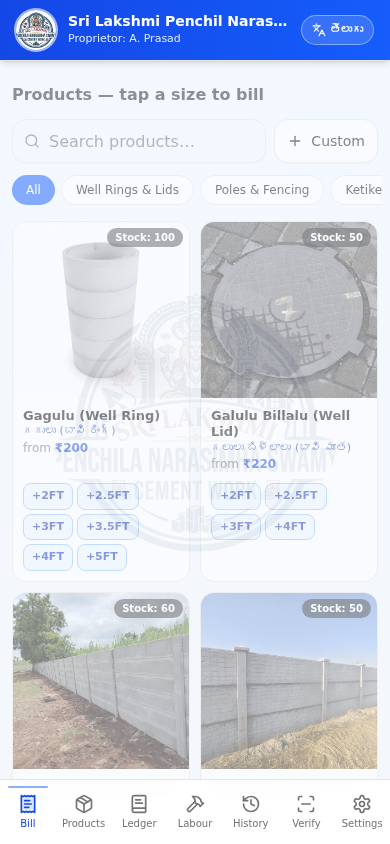
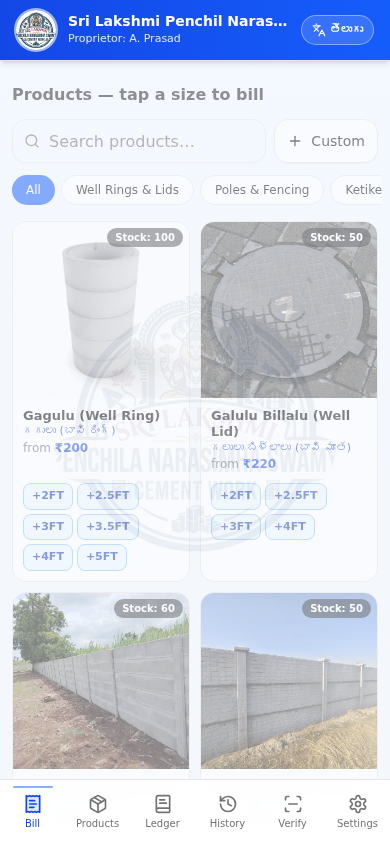
v33: labour work page MERGED into the ledger — the bottom bar is back to 6 tabs (Bill, Products, Ledger, History, Verify, Settings); the Ledger's section chips gain a 'Labour work' (లేబర్ పనులు) section that renders the full labour register (add work, notebook, month picker, KPIs) inside the ledger,

diff --git a/src/components/LedgerView.tsx b/src/components/LedgerView.tsx
@@ -26,7 +26,12 @@ import {
 import { useStore } from '@/lib/store';
 import { fmt, fmtShort, localDateKey, localMonthKey, paymentsOf } from '@/lib/billing';
 import { useAppLang, useT } from '@/hooks/use-app-lang';
+import LabourView from '@/components/LabourView';
 import type { AppLanguage, ExpenseCategory, PaymentMode } from '@/lib/types';
+
+/** sticky section chip — the Labour work page lives INSIDE the ledger now,
+ *  and the last-open section survives a refresh */
+const SECTION_KEY = 'slp-ledger-section';
 
 const EXPENSE_CATEGORIES: ExpenseCategory[] = ['Labour wages', 'Diesel', 'Raw material', 'Other'];
 
@@ -49,7 +54,7 @@ function nowHM(): string {
   return fmtTime(new Date());
 }
 
-type LedgerTab = 'day' | 'allDays' | 'income' | 'expenses' | 'dues';
+type LedgerTab = 'day' | 'allDays' | 'income' | 'expenses' | 'dues' | 'labour';
 
 /** One money row in the ledger — income (bill payment) or spent (expense) */
 interface LedgerRow {
@@ -169,7 +174,24 @@ export default function LedgerView() {
   const today = localDateKey(new Date());
   const thisMonth = localMonthKey(new Date());
 
-  const [tab, setTab] = useState<LedgerTab>('day');
+  const [tab, setTab] = useState<LedgerTab>(() => {
+    // sticky section across refreshes (Labour work page lives here now)
+    try {
+      const saved = localStorage.getItem(SECTION_KEY) as LedgerTab | null;
+      if (saved && ['day', 'allDays', 'income', 'expenses', 'dues', 'labour'].includes(saved)) return saved;
+    } catch {
+      /* storage unavailable */
+    }
+    return 'day';
+  });
+  const selectTab = (next: LedgerTab) => {
+    setTab(next);
+    try {
+      localStorage.setItem(SECTION_KEY, next);
+    } catch {
+      /* storage unavailable */
+    }
+  };
   const [day, setDay] = useState(today);
   const [month, setMonth] = useState(thisMonth);
   const [expandedDay, setExpandedDay] = useState<string | null>(null);
@@ -372,6 +394,7 @@ export default function LedgerView() {
     { id: 'income', label: t('ledger.income') },
     { id: 'expenses', label: t('ledger.expenses') },
     { id: 'dues', label: `${t('ledger.dues')}${totalDue > 0 ? ` (${dues.length})` : ''}` },
+    { id: 'labour', label: t('ledger.labour') },
   ];
 
   return (
@@ -383,7 +406,7 @@ export default function LedgerView() {
             key={x.id}
             role="tab"
             aria-selected={tab === x.id}
-            onClick={() => setTab(x.id)}
+            onClick={() => selectTab(x.id)}
             className={`shrink-0 rounded-full px-3.5 py-1.5 text-xs font-medium transition-all active:scale-95 ${
               tab === x.id ? 'bg-blue-600 text-white' : 'border bg-card hover:bg-accent'
             }`}
@@ -587,6 +610,9 @@ export default function LedgerView() {
       )}
 
       {/* ---------- DUES ---------- */}
+      {/* ---------- LABOUR WORK (merged into the ledger) ---------- */}
+      {tab === 'labour' && <LabourView />}
+
       {tab === 'dues' && (
         <div className="space-y-3">
           <div className="flex items-center justify-between rounded-xl border bg-red-50 p-3">

diff --git a/src/components/Navigation.tsx b/src/components/Navigation.tsx
@@ -2,7 +2,7 @@
 
 import { Badge } from '@/components/ui/badge';
 import { Dialog, DialogContent, DialogHeader, DialogTitle } from '@/components/ui/dialog';
-import { WifiOff, ReceiptText, Package, History, Settings, BookText, Languages, Hammer, ScanLine } from 'lucide-react';
+import { WifiOff, ReceiptText, Package, History, Settings, BookText, Languages, ScanLine } from 'lucide-react';
 import { useSyncExternalStore, useState } from 'react';
 import { useStore } from '@/lib/store';
 import { useIdentity } from '@/lib/role';
@@ -117,7 +117,6 @@ export function BottomNav() {
     { id: 'bill', label: t('nav.bill'), icon: ReceiptIcon, ownerOnly: false },
     { id: 'products', label: t('nav.products'), icon: PackageIcon, ownerOnly: true },
     { id: 'ledger', label: t('nav.ledger'), icon: LedgerIcon, ownerOnly: true },
-    { id: 'labour', label: t('nav.labour'), icon: LabourIcon, ownerOnly: true },
     { id: 'history', label: t('nav.history'), icon: HistoryIcon, ownerOnly: false },
     { id: 'verify', label: t('nav.verify'), icon: ScanIcon, ownerOnly: false },
     { id: 'settings', label: t('nav.settings'), icon: SettingsIcon, ownerOnly: true },
@@ -172,7 +171,6 @@ export function DesktopTabs() {
     { id: 'bill', label: t('nav.newBill'), ownerOnly: false },
     { id: 'products', label: t('nav.products'), ownerOnly: true },
     { id: 'ledger', label: t('nav.ledger'), ownerOnly: true },
-    { id: 'labour', label: t('nav.labour'), ownerOnly: true },
     { id: 'history', label: t('nav.invoiceHistory'), ownerOnly: false },
     { id: 'verify', label: t('nav.verify'), ownerOnly: false },
     { id: 'settings', label: t('nav.settings'), ownerOnly: true },
@@ -206,9 +204,6 @@ function PackageIcon({ className, active }: { className?: string; active?: boole
 }
 function LedgerIcon({ className, active }: { className?: string; active?: boolean }) {
   return <BookText className={`${className} ${active ? 'fill-blue-100' : ''}`} />;
-}
-function LabourIcon({ className, active }: { className?: string; active?: boolean }) {
-  return <Hammer className={`${className} ${active ? 'fill-blue-100' : ''}`} />;
 }
 function HistoryIcon({ className, active }: { className?: string; active?: boolean }) {
   return <History className={`${className} ${active ? 'fill-blue-100' : ''}`} />;

diff --git a/src/app/page.tsx b/src/app/page.tsx
@@ -5,7 +5,6 @@ import { Header, BottomNav, DesktopTabs } from '@/components/Navigation';
 import BillTab from '@/components/BillTab';
 import ProductsView from '@/components/ProductsView';
 import LedgerView from '@/components/LedgerView';
-import LabourView from '@/components/LabourView';
 import HistoryView from '@/components/HistoryView';
 import SettingsView from '@/components/SettingsView';
 import VerifyView from '@/components/VerifyView';
@@ -98,6 +97,7 @@ export default function Home() {
       setActiveTab('bill');
     }
   }, [identity.role, activeTab, setActiveTab]);
+
 
   const [modalInvoice, setModalInvoice] = useState<Invoice | null>(null);
   const [modalOpen, setModalOpen] = useState(false);
@@ -192,6 +192,12 @@ export default function Home() {
     if (gate !== 'ready' || !mounted) return;
     useStore.getState().migrateVerifyCodes();
   }, [gate, mounted]);
+
+  // the Labour work page moved INSIDE the Ledger tab (v33) — a device that
+  // was last on 'labour' opens on Ledger (its sticky chip remembers the view)
+  useEffect(() => {
+    if (mounted && activeTab === 'labour') setActiveTab('ledger');
+  }, [mounted, activeTab, setActiveTab]);
 
   const totals = computeTotals(cart, cfg);
 
@@ -336,13 +342,6 @@ export default function Home() {
               <div className="mx-auto max-w-2xl">
                 <h2 className="mb-3 text-base font-bold text-neutral-800">{t('ledger.title')}</h2>
                 <LedgerView />
-              </div>
-            )}
-
-            {activeTab === 'labour' && (
-              <div className="mx-auto max-w-2xl">
-                <h2 className="mb-3 text-base font-bold text-neutral-800">{t('labour.title')}</h2>
-                <LabourView />
               </div>
             )}
 

diff --git a/src/lib/i18n.ts b/src/lib/i18n.ts
@@ -488,6 +488,7 @@ export const APP_EN = {
   'ledger.dues': 'Dues',
   'ledger.expenses': 'Expenses',
   'ledger.income': 'Income',
+  'ledger.labour': 'Labour work',
   'ledger.spent': 'Spent',
   'ledger.net': 'Net',
   'ledger.date': 'Date',
@@ -875,6 +876,7 @@ export const APP_TE: Record<AppLangKey, string> = {
   'ledger.dues': 'బాకీలు',
   'ledger.expenses': 'ఖర్చులు',
   'ledger.income': 'ఆదాయం',
+  'ledger.labour': 'లేబర్ పనులు',
   'ledger.spent': 'ఖర్చు',
   'ledger.net': 'నికరం',
   'ledger.date': 'తేదీ',

diff --git a/public/sw.js b/public/sw.js
@@ -1,5 +1,5 @@
 /* Service worker for SLP Cement Works Billing PWA */
-const CACHE = 'slp-billing-v32';
+const CACHE = 'slp-billing-v33';
 
 const PRECACHE = [
   '/',

diff --git a/src/lib/version.ts b/src/lib/version.ts
@@ -1,2 +1,2 @@
 /** App release version — bump together with sw.js CACHE when an update ships */
-export const APP_VERSION = '32';
+export const APP_VERSION = '33';
